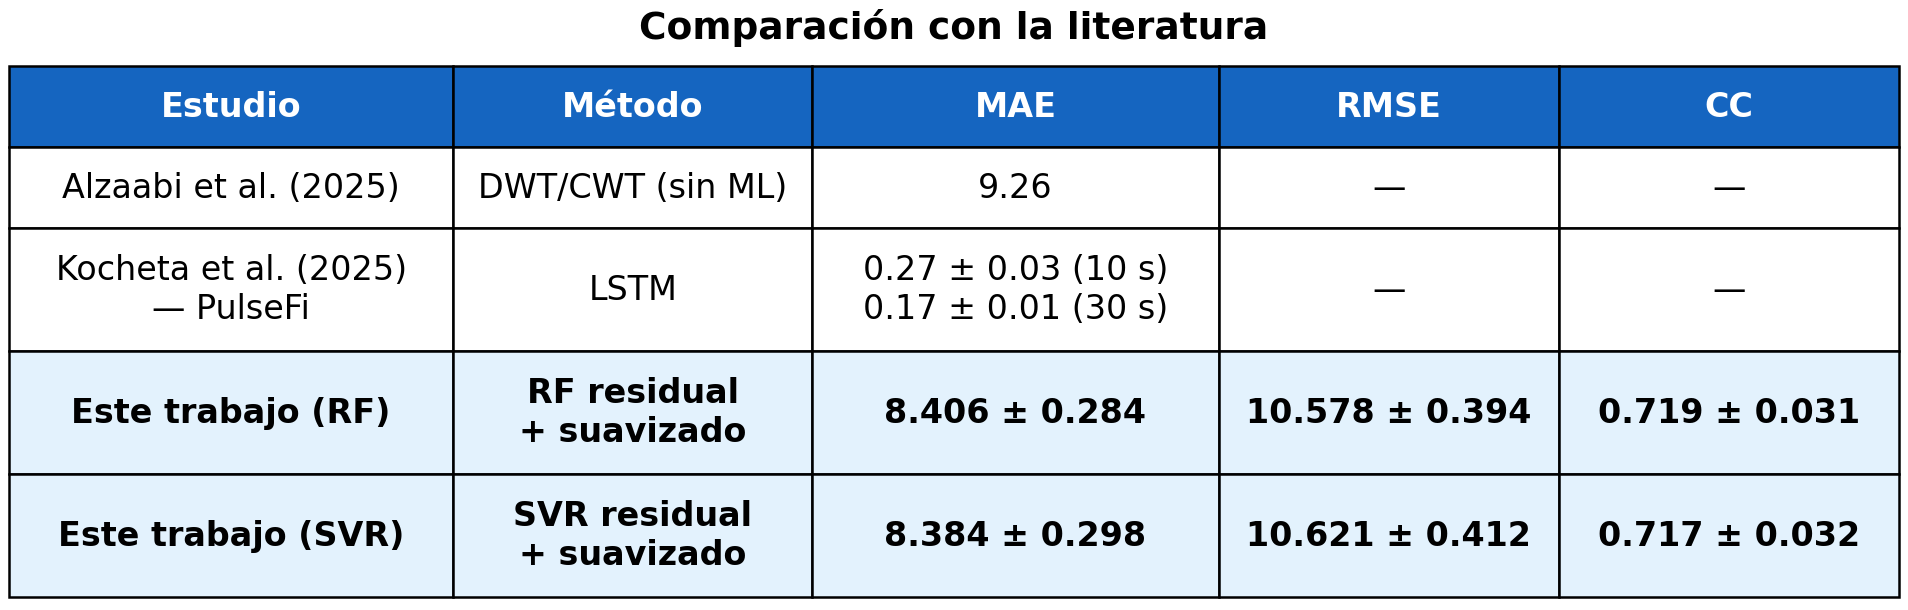
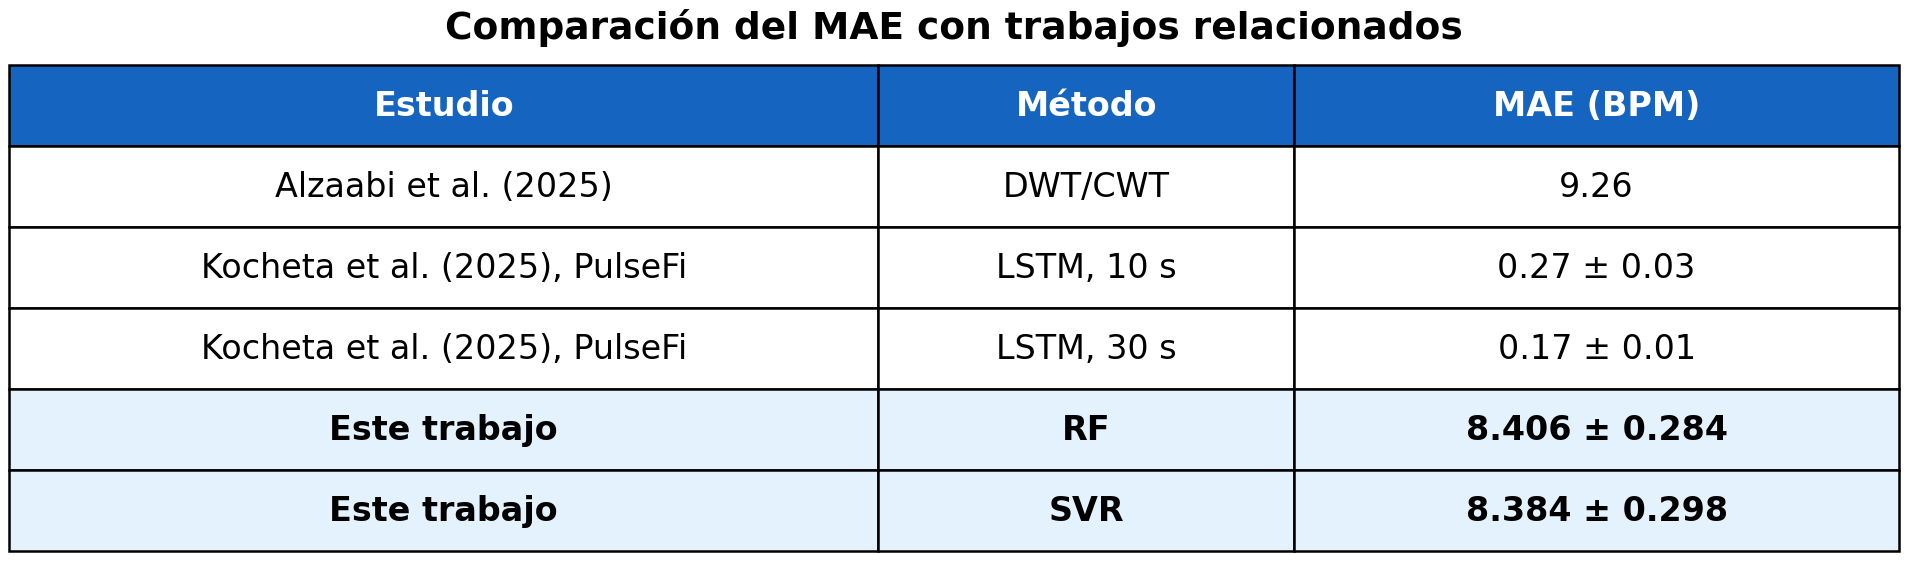
Update literature comparison table

diff --git a/codigo/generar_resultados.py b/codigo/generar_resultados.py
@@ -308,44 +308,24 @@ def generar_predicho_vs_referencia_test_rf(D, M):
 # Valores publicados (fuentes primarias verificadas):
 #   Alzaabi, Saied y Arslan (2025), IEEE JTEHM, doi:10.1109/JTEHM.2025.3624469 (PMC12599888): MAE 9.26 BPM (DWT/CWT, sin ML).
 #   Kocheta, Bhatia y Obraczka (2025), arXiv:2510.24744v1, Tabla I (eHealth): MAE 0.27 +- 0.03 (10 s), 0.17 +- 0.01 (30 s).
-LITERATURA = [("Alzaabi et al. (2025)", "DWT/CWT (sin ML)", "9.26", "—", "—"),
-              ("Kocheta et al. (2025)\n— PulseFi", "LSTM", "0.27 ± 0.03 (10 s)\n0.17 ± 0.01 (30 s)", "—", "—")]
+LITERATURA = [("Alzaabi et al. (2025)", "DWT/CWT", "9.26"),
+              ("Kocheta et al. (2025), PulseFi", "LSTM, 10 s", "0.27 ± 0.03"),
+              ("Kocheta et al. (2025), PulseFi", "LSTM, 30 s", "0.17 ± 0.01")]
 
 
 def generar_tabla_comparacion_literatura(M):
-    """Tabla visual: literatura (valores publicados) y este trabajo (media +- DE de las 33 semillas, calculada desde
-    metricas_por_semilla)."""
-    def fmt(v):
-        return f"{v.mean():.3f} ± {v.std(ddof=1):.3f}"
+    """Tabla visual de 3 columnas (Estudio, Metodo, MAE): literatura (valores publicados) y este trabajo (MAE media +- DE
+    de las 33 semillas, calculada desde metricas_por_semilla). Sin RMSE ni CC: los trabajos externos no los reportan."""
     propias = []
-    for fam, metodo in (("RF", "RF residual\n+ suavizado"), ("SVR", "SVR residual\n+ suavizado")):
+    for fam in ("RF", "SVR"):
         g = M[M.metodo == fam]
         if len(g) != 33:
             raise RuntimeError(f"{fam}: se esperaban 33 semillas")
-        propias.append((f"Este trabajo ({fam})", metodo, fmt(g.MAE), fmt(g.RMSE), fmt(g.pearson_r)))
-    filas = LITERATURA + propias
-    with estilo(ESTILO_CLASICO):
-        lineas = [1] + [max(c.count("\n") + 1 for c in f) for f in filas]          # lineas por fila (cabecera = 1)
-        alto_linea, alto_min = 0.155, 0.27                                          # pulgadas
-        altos = [max(alto_min, alto_linea * n + 0.1) for n in lineas]
-        fig = plt.figure(figsize=(6.3, sum(altos) + 0.05))
-        ax = fig.add_axes([0, 0, 1, 1]); ax.axis("off")                            # la tabla ocupa los 16 cm de ancho
-        tab = ax.table(cellText=[list(f) for f in filas], colLabels=["Estudio", "Método", "MAE", "RMSE", "CC"],
-                       colWidths=[0.235, 0.19, 0.215, 0.18, 0.18], cellLoc="center", loc="upper center")
-        tab.auto_set_font_size(False); tab.set_fontsize(8)
-        alto_fig = sum(altos) + 0.05
-        for (fila, col), celda in tab.get_celld().items():
-            celda.set_edgecolor("#000000"); celda.set_linewidth(0.6)
-            celda.set_height(altos[fila] / alto_fig)
-            if fila == 0:
-                celda.set_facecolor(AZUL_CAB); celda.get_text().set_color("white"); celda.get_text().set_fontweight("bold")
-            elif filas[fila - 1][0].startswith("Este trabajo"):
-                celda.set_facecolor(AZUL_FILA); celda.get_text().set_fontweight("bold")
-            else:
-                celda.set_facecolor("white")
-        ax.set_title("Comparación con la literatura", fontweight="bold", fontsize=9, pad=4)
-        guardar(fig, FIG, "tabla_comparacion_literatura")
-    return {f[0]: {"MAE": f[2], "RMSE": f[3], "CC": f[4]} for f in propias}
+        propias.append(("Este trabajo", fam, f"{g.MAE.mean():.3f} ± {g.MAE.std(ddof=1):.3f}"))
+    _tabla_visual(LITERATURA + propias, ("Estudio", "Método", "MAE (BPM)"), (0.46, 0.22, 0.32),
+                  "Comparación del MAE con trabajos relacionados", "tabla_comparacion_literatura",
+                  resaltar=("Este trabajo",))
+    return {f"{f[0]} ({f[1]})": {"MAE": f[2]} for f in propias}
 
 
 def _tabla_visual(filas, cabecera, anchos, titulo, nombre, resaltar=()):
